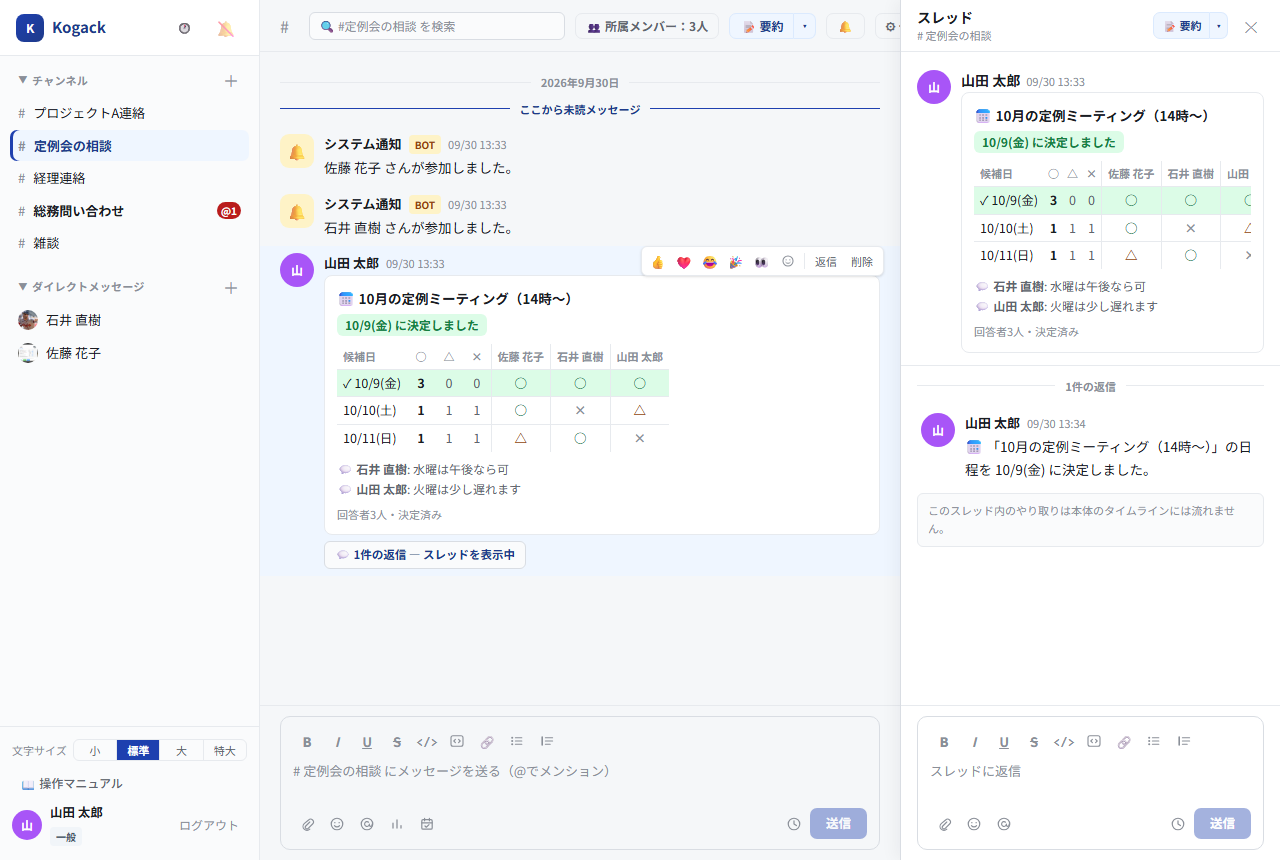
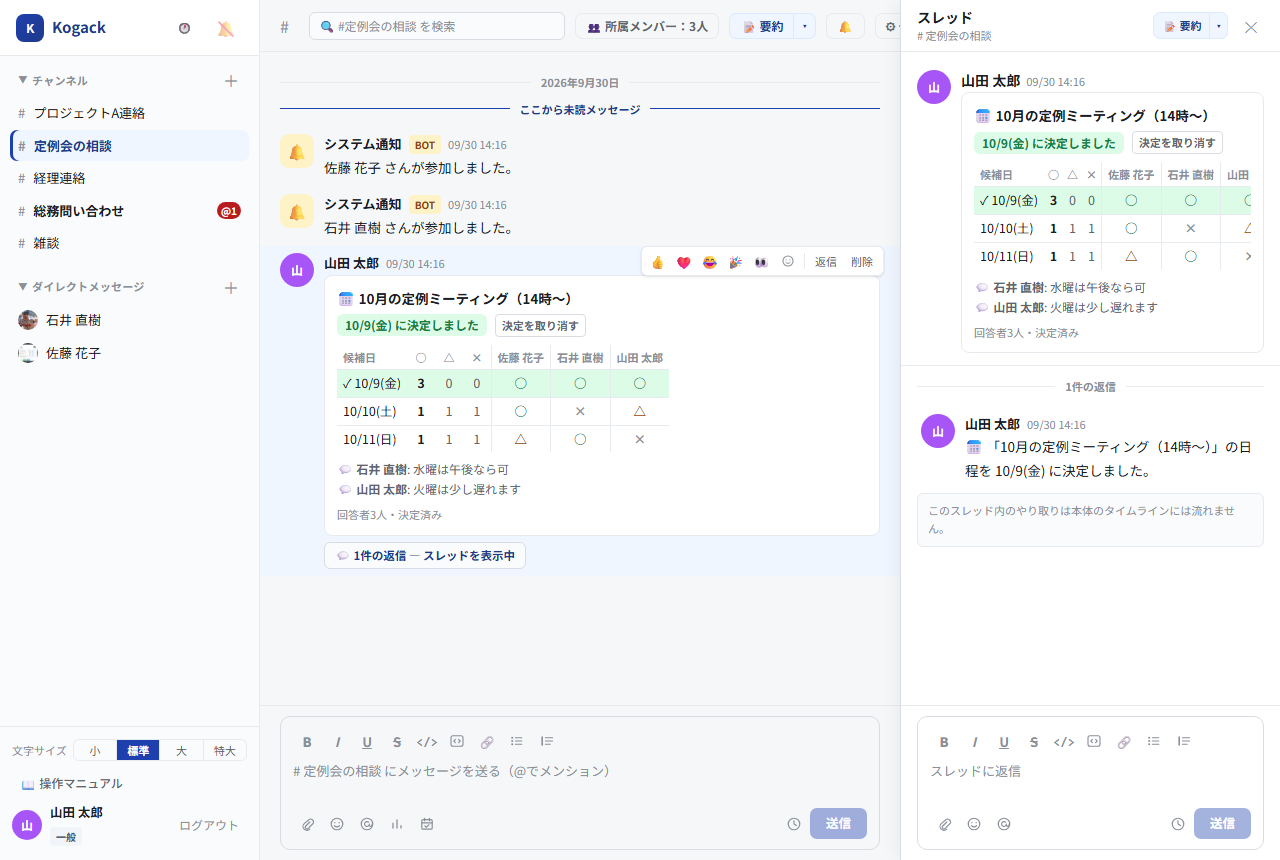
日程調整で、間違えて決定した日程を取り消せるようにする
「〇〇 に決定しました」の右に「決定を取り消す」ボタンを追加した（作成者本人・システム管理者
のみ）。取り消すと未決定に戻って回答の受け付けを再開し、スレッドに取り消しのお知らせを投稿
する（先の決定のお知らせは残す）。新規API POST /api/polls/{id}/undecide。操作マニュアル5.8節・
FAQ・app_help/manual.md・FIXED_RULES・DB設計・API設計を更新した。

diff --git a/docs/06_操作マニュアル.html b/docs/06_操作マニュアル.html
@@ -65,6 +65,7 @@
       <tr><td>1.34</td><td>2026-09-30</td><td>サイドバーのDMが最近やり取りした順に並び、30日以上やり取りの無いDMが隠れるようになったことを3章・14章に追記した。</td></tr>
       <tr><td>1.35</td><td>2026-09-30</td><td>ユーザーからの報告「←キーで太字・コードの途中へ戻って入力しようとすると、入力はその書式のままなのにボタンの表示だけ解除される（Slackと異なる）」を受け、書式ボタンの表示をSlackと同じく「カーソルの直前の文字の書式」に合わせるようにした。5.2節「記法を直接入力する」を更新した。</td></tr>
       <tr><td>1.36</td><td>2026-09-30</td><td>ユーザーからの要望を受け、コードブロックの最後の行の末尾で↓キーを押すと、Slackと同じくコードブロックの下に普通の行ができるようにした。5.2節の書式一覧（コードブロック）を更新した。</td></tr>
+      <tr><td>1.42</td><td>2026-09-30</td><td>ユーザーからの要望「間違えて日程を決定してしまったとき用にキャンセルボタンを作れますか」を受け、日程調整の決定を取り消せるようにした。5.8節・14章FAQを更新した。</td></tr>
       <tr><td>1.41</td><td>2026-09-30</td><td>ユーザーからの要望「AIの返信催促機能を、デフォルトでONにしたい」を受け、メンションの催促を既定でオンにし、既存のチャンネルも一括でオンにした（切り替えた時点より後のメンションが対象）。5.3節・12.2節を更新した。</td></tr>
       <tr><td>1.40</td><td>2026-09-30</td><td>ユーザーからの要望「アンケート機能で、複数回答を許可するかしないか選べるようにしてほしい」を受け、アンケートの作成時に「複数回答を許可する」を選べるようにした。5.7節を更新し、複数回答のアンケートの表示例（図5-8）を追加した（以降の5章の図番号を1つずつ繰り下げ）。14章FAQにも追記した。</td></tr>
       <tr><td>1.39</td><td>2026-09-30</td><td>ユーザーからの要望を受け、日程調整の作成画面で候補日の右に曜日を表示するようにした。5.8節を更新した。</td></tr>
@@ -388,12 +389,14 @@
   <p><strong>日程を決定する</strong></p>
   <p>回答が集まったら、決めたい候補の行の右端にある「<strong>決定</strong>」を押し、確認画面で「<strong>決定する</strong>」を押します。決定できるのは<strong>日程調整を作成した本人とシステム管理者</strong>だけで、それ以外の人には「決定」が表示されません。★の付いた候補以外を選ぶこともできます。</p>
   <p>決定すると、日程調整に「〇〇 に決定しました」と表示され、以後は誰も回答できなくなります。あわせて、その日程調整のスレッドに「📅「タイトル」の日程を 〇〇 に決定しました。」という返信が決定した人の名前で自動的に投稿されるので、参加者はそのスレッドで「了解です」などと返事ができます。</p>
+  <p><strong>決定を取り消す</strong></p>
+  <p>間違えて決定してしまった場合は、「〇〇 に決定しました」の右にある「<strong>決定を取り消す</strong>」を押し、確認画面で「<strong>取り消す</strong>」を押します。決定前の状態に戻り、再び回答できるようになります（それまでの回答はそのまま残ります）。あわせて、スレッドに「📅「タイトル」の日程の決定（〇〇）を取り消しました。回答の受け付けを再開します。」という返信が自動的に投稿されます（先に投稿された決定のお知らせは残ります）。取り消した後は、改めて正しい候補の「決定」を押してください。「決定を取り消す」が表示されるのは、決定と同じく作成した本人とシステム管理者だけです。</p>
   <figure class="shot">
     <img src="操作マニュアル画像/34_schedule_decided.png" alt="日程が決定した日程調整とスレッドのお知らせ">
-    <figcaption><span class="fig-no">図5-13</span>日程を決定した後の表示。決定した候補に✓が付き、右のスレッドに決定のお知らせが投稿されている。</figcaption>
+    <figcaption><span class="fig-no">図5-13</span>日程を決定した後の表示。決定した候補に✓が付き、右のスレッドに決定のお知らせが投稿されている。「決定を取り消す」は作成者本人・システム管理者にのみ表示される。</figcaption>
   </figure>
   <div class="callout">
-    <p>決定を取り消したり、別の候補に決め直したりする機能はありません。また、作成後にタイトル・候補日程を編集することはできません。直したい場合は、通常の発言と同じく「削除」で消して（6.4節）作り直してください。スレッドの返信欄には日程調整のボタンが無いため、スレッド内には作成できません。日程の決定はKogackのカレンダーや他のツールには登録されません。</p>
+    <p>作成後にタイトル・候補日程を編集することはできません。直したい場合は、通常の発言と同じく「削除」で消して（6.4節）作り直してください。スレッドの返信欄には日程調整のボタンが無いため、スレッド内には作成できません。日程の決定はKogackのカレンダーや他のツールには登録されません。</p>
   </div>
   <p>チャンネルAIをメンションして「この日程調整、どの日が一番都合がいい？」のように尋ねると、会話中の日程調整の回答状況をもとに答えます（11章）。</p>
 
@@ -669,7 +672,8 @@
       <tr><td>アンケートで投票を間違えた</td><td>締め切り前であれば、単一選択のアンケートは正しい選択肢をクリックし直すと投票が切り替わります。複数回答のアンケートは、間違えた選択肢をもう一度クリックすると取り消せます（5.7節）。</td></tr>
       <tr><td>アンケートで複数の選択肢を選びたい</td><td>複数選べるのは、作成時に「複数回答を許可する」にチェックを入れたアンケートだけです（質問の下に「複数回答可」と表示されます）。作成後には切り替えられないため、必要なら作り直してください（5.7節）。</td></tr>
       <tr><td>日程調整の「決定」が出ない</td><td>決定できるのは日程調整を作成した本人とシステム管理者だけです。作成者に決定を依頼してください（5.8節）。</td></tr>
-      <tr><td>日程調整の回答を直したい</td><td>決定される前であれば、「回答を修正する」から回答し直せます。決定後は回答できません（5.8節）。</td></tr>
+      <tr><td>日程調整の回答を直したい</td><td>決定される前であれば、「回答を修正する」から回答し直せます。決定後は回答できません（決定が取り消されれば再び回答できます。5.8節）。</td></tr>
+      <tr><td>日程調整で間違えて決定してしまった</td><td>作成した本人またはシステム管理者が「決定を取り消す」を押すと、決定前の状態に戻ります。その後、正しい候補の「決定」を押し直してください（5.8節）。</td></tr>
       <tr><td>添付ファイルがプレビューできない</td><td>プレビューは画像・PDF・プレーンテキストのみ対応です。それ以外の形式（Word・Excel等）はダウンロードしてから確認してください。</td></tr>
     </tbody>
   </table>

diff --git a/docs/05-2_詳細設計書_API設計.html b/docs/05-2_詳細設計書_API設計.html
@@ -71,6 +71,7 @@
       <tr class="diff-new"><td>1.40</td><td>2026-09-29</td><td>A-10/A-18の<code>limit</code>を1〜200に制限した（範囲外は422）。A-14は返信先がスレッドの返信の場合400を返すようにした（返信への返信は対象外）。A-20の語句条件で<code>%</code>・<code>_</code>を文字どおりに扱うようエスケープするようにした。削除済みの発言に紐づくアンケートへの投票・締め切りは404にした。</td></tr>
       <tr class="diff-new"><td>1.41</td><td>2026-09-30</td><td>日程調整（ユーザーからの明示的な要望）に伴い、<code>POST /api/channels/{id}/schedules</code>・<code>POST /api/dms/{id}/schedules</code>（作成。タイトルと候補日<code>dates</code>＝日付を1〜30件、重複は422）、<code>PUT /api/polls/{id}/schedule-response</code>（全候補への○△×とひとことコメントを一括で回答・上書き）、<code>POST /api/polls/{id}/decide</code>（作成者本人またはシステム管理者が確定し、スレッドへお知らせを投稿）を追加した。発言一覧等の<code>poll</code>に<code>kind</code>（choice/schedule）を追加し、日程調整では候補ごとの○△×の人数・回答者別の回答とコメント・確定した候補・最も都合の良い候補を返す。日程調整に対する<code>/vote</code>は400にした（DB設計3.21節）。</td></tr>
       <tr class="diff-new"><td>1.42</td><td>2026-09-30</td><td>アンケートの複数回答（ユーザーからの明示的な要望）に伴い、<code>POST /api/channels/{id}/polls</code>・<code>POST /api/dms/{id}/polls</code>に<code>allow_multiple</code>（既定false）を追加した。<code>POST /api/polls/{id}/vote</code>は、複数回答のアンケートでは押した選択肢の投票・取り消しを切り替える（単一選択は従来どおり上書き）。<code>poll</code>の<code>my_option_id</code>を<code>my_option_ids</code>（配列）に置き換え、<code>allow_multiple</code>・<code>voter_count</code>（投票した人数）を追加した。</td></tr>
+      <tr class="diff-new"><td>1.43</td><td>2026-09-30</td><td>日程調整の決定の取り消し（ユーザーからの明示的な要望）として<code>POST /api/polls/{id}/undecide</code>を追加した。作成者本人またはシステム管理者のみ（それ以外は403、未決定なら400）。未決定の状態に戻して回答の受け付けを再開し、元発言のスレッドへ取り消しのお知らせを投稿する（DB設計3.21節）。</td></tr>
       <tr class="diff-new"><td>1.41</td><td>2026-09-29</td><td>メンションの催促（ユーザーからの明示的な要望）のため、新規API A-77（催促の有効/無効・待ち時間の更新）を追加し、A-23のレスポンスに<code>mention_reminder_enabled</code>・<code>mention_reminder_hours</code>を追加した（DB設計v1.17 T-08・T-30）。要件定義書上のF-xxに対応付けられた変更ではないため、要件定義書・基本設計書の改訂は無い。</td></tr>
       <tr class="diff-new"><td>1.42</td><td>2026-09-29</td><td>A-28/A-29にスキルの対応区分<code>response_level</code>（auto=そのまま対応/confirm=確認してから対応）を追加し、A-31を「人に任せる依頼」（response_level='human'のみ）を扱うAPIにした（要件定義書v1.27 F-16、DB設計v1.18）。</td></tr>
       <tr class="diff-new"><td>1.43</td><td>2026-09-29</td><td>参照範囲外の質問への対応（out_of_scope_policy、F-11）の既定を「厳格に制限」から「一般回答を許可」に変更し、既存チャンネルも一括で切り替えた（ユーザーからの要望）。A-23のレスポンス例とA-27の省略時の値を更新した。</td></tr>

diff --git a/frontend/src/components/SchedulePollCard.tsx b/frontend/src/components/SchedulePollCard.tsx
@@ -1,5 +1,5 @@
 import { useState } from 'react'
-import { decideSchedulePoll, respondSchedulePoll } from '../lib/api'
+import { decideSchedulePoll, respondSchedulePoll, undecideSchedulePoll } from '../lib/api'
 import type { ScheduleAnswer, SchedulePoll } from '../types'
 import { useConfirm } from './ui/ConfirmDialog'
 import { useToast } from './Toast'
@@ -69,7 +69,7 @@ export function SchedulePollCard({
   const decide = async (optionId: string, label: string) => {
     const ok = await confirm({
       title: '日程を決定',
-      message: `「${label}」に決定しますか？\n決定すると回答の受け付けを終了し、スレッドに決定のお知らせを投稿します。決定は取り消せません。`,
+      message: `「${label}」に決定しますか？\n決定すると回答の受け付けを終了し、スレッドに決定のお知らせを投稿します（間違えた場合は「決定を取り消す」で元に戻せます）。`,
       confirmLabel: '決定する',
     })
     if (!ok) return
@@ -83,14 +83,47 @@ export function SchedulePollCard({
     }
   }
 
+  // 決定の取り消し（間違えて決定したとき用、ユーザーからの要望、2026-09-30）。決定と同じく
+  // 作成者本人・システム管理者のみ。取り消すと未決定に戻って回答の受け付けを再開し、スレッドに
+  // 取り消しのお知らせが投稿される
+  const undecide = async (label: string) => {
+    const ok = await confirm({
+      title: '決定を取り消す',
+      message: `「${label}」への決定を取り消しますか？\n未決定の状態に戻って回答の受け付けを再開し、スレッドに取り消しのお知らせを投稿します。`,
+      confirmLabel: '取り消す',
+      danger: true,
+    })
+    if (!ok) return
+    setDeciding(true)
+    try {
+      onUpdated?.(await undecideSchedulePoll(poll.id))
+    } catch (e) {
+      toast(e instanceof Error ? e.message : '決定の取り消しに失敗しました', 'error')
+    } finally {
+      setDeciding(false)
+    }
+  }
+
   const decidedLabel = poll.options.find((o) => o.id === poll.decided_option_id)?.label
 
   return (
     <div className="mt-0.5 max-w-[640px] rounded-lg border border-line bg-surface p-3">
       <div className="text-[13.5px] font-semibold text-ink">📅 {title}</div>
       {decidedLabel && (
-        <div className="mt-1.5 inline-block rounded-md bg-ok-bg px-2 py-0.5 text-[12px] font-semibold text-ok-text">
-          {decidedLabel} に決定しました
+        <div className="mt-1.5 flex flex-wrap items-center gap-2">
+          <span className="rounded-md bg-ok-bg px-2 py-0.5 text-[12px] font-semibold text-ok-text">
+            {decidedLabel} に決定しました
+          </span>
+          {canDecide && (
+            <button
+              type="button"
+              disabled={deciding}
+              onClick={() => undecide(decidedLabel)}
+              className="rounded border border-line-strong px-1.5 py-0.5 text-[11px] font-semibold text-ink-muted hover:border-danger-border hover:text-danger-text disabled:opacity-50"
+            >
+              {deciding ? '取り消し中…' : '決定を取り消す'}
+            </button>
+          )}
         </div>
       )}
 

diff --git a/docs/05-1_詳細設計書_DB設計.html b/docs/05-1_詳細設計書_DB設計.html
@@ -456,7 +456,7 @@
       <tr><td>answer</td><td>TEXT</td><td>NOT NULL</td><td>-</td><td>CHECK IN ('yes','maybe','no')。画面上は○△×</td></tr>
     </tbody>
   </table>
-  <p class="muted diff-new">1人が候補ごとに1つずつ回答するため、1人1票のpoll_votesは使わない。回答（<code>PUT /api/polls/{id}/schedule-response</code>）は全候補ぶんの○△×とコメントを1回で送り、全候補に回答が無ければ422にする。回答のやり直しはON CONFLICT DO UPDATEで上書きする。確定（<code>POST /api/polls/{id}/decide</code>）は作成者本人またはシステム管理者のみで、decided_option_idとclosed_atを入れ、元発言のスレッドへ確定した本人の発言として「📅「タイトル」の日程を 〇〇 に決定しました。」を投稿する。確定後は回答できない（確定の取り消しは無い）。最も都合の良い候補（○が最多、同数なら△が多いもの）は保存せず、取得のたびに計算する（<code>polls.best_schedule_option_ids</code>）。回答・確定では他のアンケートと同じくmessages.updated_atを進め、差分ポーリングで他の参加者の画面へ反映させる。</p>
+  <p class="muted diff-new">1人が候補ごとに1つずつ回答するため、1人1票のpoll_votesは使わない。回答（<code>PUT /api/polls/{id}/schedule-response</code>）は全候補ぶんの○△×とコメントを1回で送り、全候補に回答が無ければ422にする。回答のやり直しはON CONFLICT DO UPDATEで上書きする。確定（<code>POST /api/polls/{id}/decide</code>）は作成者本人またはシステム管理者のみで、decided_option_idとclosed_atを入れ、元発言のスレッドへ確定した本人の発言として「📅「タイトル」の日程を 〇〇 に決定しました。」を投稿する。確定後は回答できない。確定の取り消し（<code>POST /api/polls/{id}/undecide</code>、2026-09-30追加。確定と同じ権限）はdecided_option_idとclosed_atを空に戻して回答の受け付けを再開し、スレッドへ取り消しのお知らせを投稿する（先の確定のお知らせは消さない）。最も都合の良い候補（○が最多、同数なら△が多いもの）は保存せず、取得のたびに計算する（<code>polls.best_schedule_option_ids</code>）。回答・確定では他のアンケートと同じくmessages.updated_atを進め、差分ポーリングで他の参加者の画面へ反映させる。</p>
 
   <footer class="doc-footer">
     <span>AIネイティブチャットシステム（Kogack） / 詳細設計書 DB設計</span>

diff --git a/frontend/src/lib/api.ts b/frontend/src/lib/api.ts
@@ -178,6 +178,11 @@ export async function respondSchedulePoll(
   })
 }
 
+/** 日程の決定を取り消し、回答の受け付けを再開する（間違えて決定したとき用、2026-09-30追加） */
+export async function undecideSchedulePoll(pollId: string): Promise<import('../types').SchedulePoll> {
+  return apiFetch(`/api/polls/${pollId}/undecide`, { method: 'POST' })
+}
+
 export async function decideSchedulePoll(pollId: string, optionId: string): Promise<import('../types').SchedulePoll> {
   return apiFetch(`/api/polls/${pollId}/decide`, {
     method: 'POST',

diff --git a/backend/routers/polls.py b/backend/routers/polls.py
@@ -191,7 +191,7 @@ async def decide_schedule(poll_id: int, body: DecideScheduleRequest, user: Curre
     締め切り（以後は回答不可）、元発言のスレッドへ確定のお知らせを確定した本人の発言として投稿する
     （利用者の合意した仕様「スレッドにも確定のお知らせを自動で投稿する」。システム通知（F-43）は
     返信できないため使わず、参加者がそのまま「了解です」等と返せる通常の返信にする）。確定の
-    取り消し・変更は対象外（アンケートの締め切りと同じく一方向の操作として単純化）"""
+    取り消しはundecide_schedule（間違えて決定したとき用、2026-09-30追加）で行う"""
     pool = get_pool()
     poll_row = await _require_schedule(pool, poll_id, user.id)
     if poll_row["created_by"] != user.id and user.role != "admin":
@@ -217,6 +217,34 @@ async def decide_schedule(poll_id: int, body: DecideScheduleRequest, user: Curre
                VALUES ($1, $2, $3, 'human', $4, $5)""",
             poll_row["channel_id"], poll_row["dm_id"], poll_row["message_id"], user.id,
             f"📅 「{title}」の日程を {label} に決定しました。",
+        )
+        await conn.execute("UPDATE messages SET updated_at = now() WHERE id = $1", poll_row["message_id"])
+        result = await polls.fetch_polls_grouped(conn, [poll_row["message_id"]], user.id)
+    return result[poll_row["message_id"]]
+
+
+@router.post("/{poll_id}/undecide")
+async def undecide_schedule(poll_id: int, user: CurrentUser = Depends(require_auth)):
+    """日程の決定を取り消す（ユーザーからの明示的な要望「間違えて日程を決定してしまったとき用に
+    キャンセルボタンを作れますか」、2026-09-30）。決定と同じく作成者本人またはシステム管理者のみ。
+    decided_option_idとclosed_atを空に戻して回答の受け付けを再開し、スレッドへ取り消しのお知らせを
+    取り消した本人の発言として投稿する。先に投稿された決定のお知らせは消さない（既に読んだ人が
+    いても、取り消しのお知らせが続けて並ぶことで経緯が分かるようにするため）"""
+    pool = get_pool()
+    poll_row = await _require_schedule(pool, poll_id, user.id)
+    if poll_row["created_by"] != user.id and user.role != "admin":
+        raise HTTPException(403, detail="この日程調整の決定を取り消す権限がありません")
+    if poll_row["decided_option_id"] is None:
+        raise HTTPException(400, detail="まだ日程が決定されていません")
+    label = await pool.fetchval("SELECT label FROM poll_options WHERE id = $1", poll_row["decided_option_id"])
+    title = await pool.fetchval("SELECT body FROM messages WHERE id = $1", poll_row["message_id"])
+    async with pool.acquire() as conn, conn.transaction():
+        await conn.execute("UPDATE polls SET closed_at = NULL, decided_option_id = NULL WHERE id = $1", poll_id)
+        await conn.execute(
+            """INSERT INTO messages (channel_id, dm_id, thread_parent_id, sender_type, sender_user_id, body)
+               VALUES ($1, $2, $3, 'human', $4, $5)""",
+            poll_row["channel_id"], poll_row["dm_id"], poll_row["message_id"], user.id,
+            f"📅 「{title}」の日程の決定（{label}）を取り消しました。回答の受け付けを再開します。",
         )
         await conn.execute("UPDATE messages SET updated_at = now() WHERE id = $1", poll_row["message_id"])
         result = await polls.fetch_polls_grouped(conn, [poll_row["message_id"]], user.id)

diff --git a/backend/services/ai_agent.py b/backend/services/ai_agent.py
@@ -261,8 +261,10 @@ FIXED_RULES = """# 全チャンネル共通ルール（固定・編集不可）
   「回答を修正する」で何度でも直せる。回答は一覧表で参加者全員に見え、○が最多（同数なら△が
   多い）候補に★が付く。決定は、作成者本人とシステム管理者だけが、候補の行の「決定」を押して
   行える（★以外の候補も選べる）。決定すると回答を締め切り、その日程調整のスレッドに決定の
-  お知らせが決定した人の名前で自動投稿される。決定の取り消し・決め直し、作成後のタイトル・
-  候補の編集、カレンダーへの自動登録の機能は無い。「日程調整機能はありません」「外部の調整
+  お知らせが決定した人の名前で自動投稿される。間違えて決定した場合は、作成者本人とシステム
+  管理者だけが「〇〇 に決定しました」の右の「決定を取り消す」を押して決定前に戻せる（回答の
+  受け付けが再開し、スレッドに取り消しのお知らせが投稿される。その後に正しい候補を決定し直す）。
+  作成後のタイトル・候補の編集、カレンダーへの自動登録の機能は無い。「日程調整機能はありません」「外部の調整
   ツールを使ってください」のように案内しないこと。会話履歴中の日程調整の発言には、候補ごとの
   ○△×の人数・回答者別の回答・決定状況が「[日程調整（…）]」として添えられているので、
   状況を尋ねられた場合はそれに基づいて答えること
